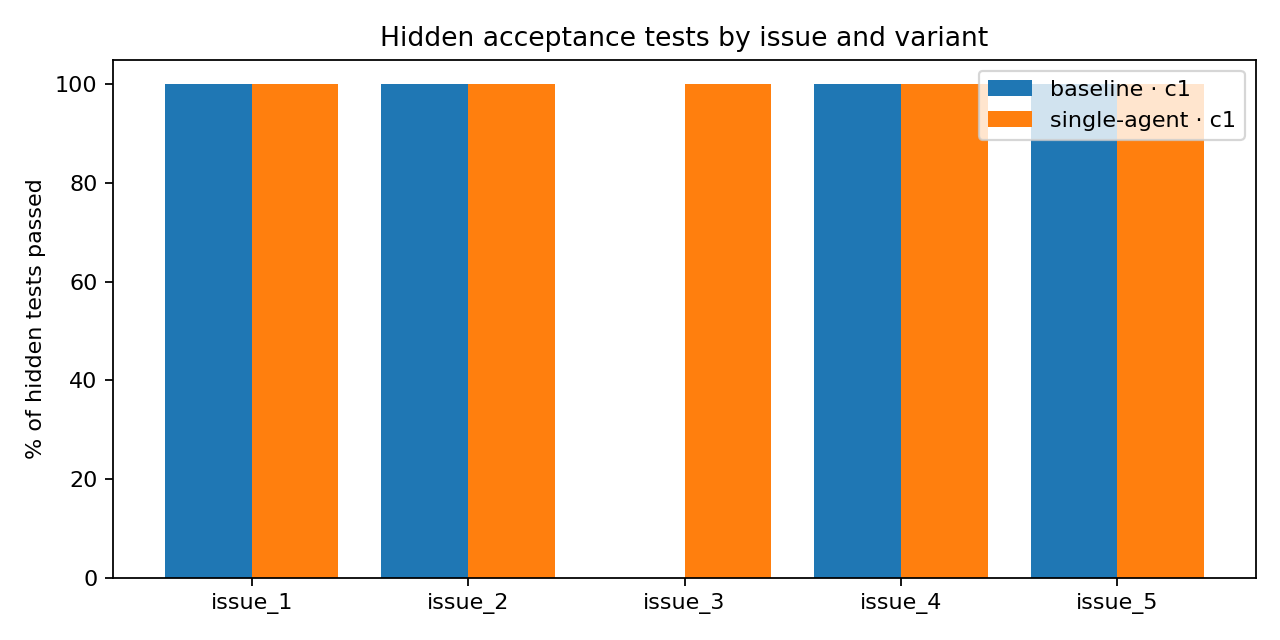
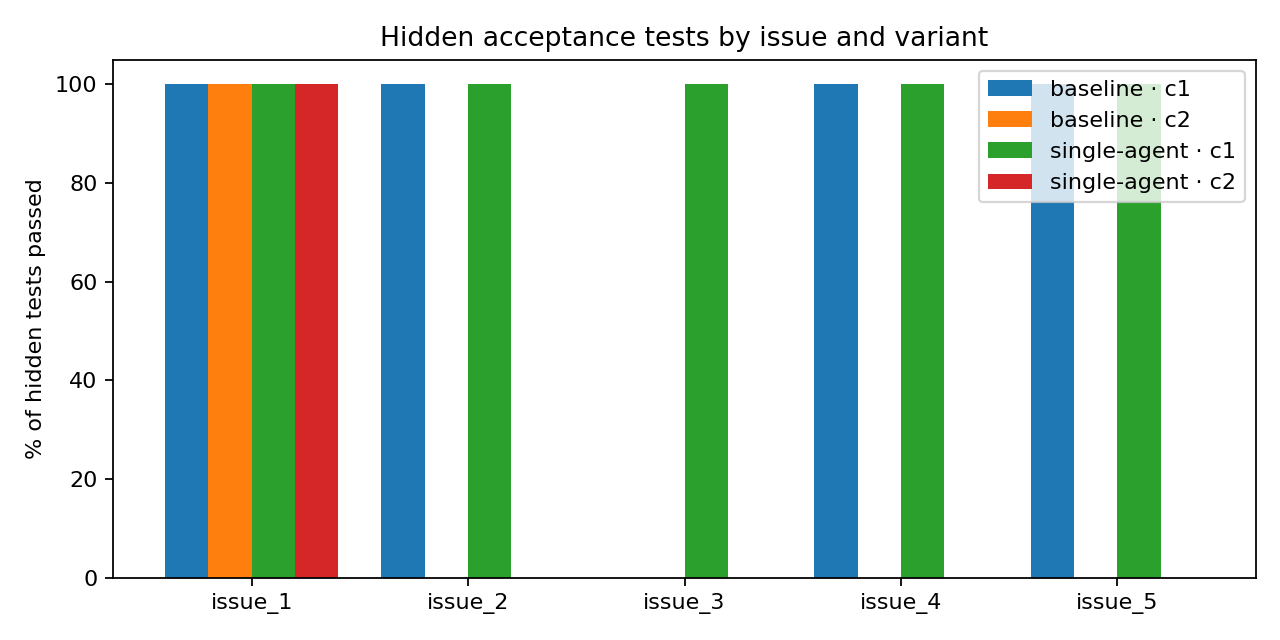
results: checkpoint after Issue 1 repeat runs (71 runs collected)

diff --git a/results/summary.md b/results/summary.md
@@ -2,7 +2,7 @@
 
 _Generated from real run artifacts by `collect_results.py`. Do not edit by hand._
 
-Runs: 69 (16 full, 53 review-only). Tokens: 14,683,869 total; estimated cost $0.00. 1 run(s) stopped by the model provider's daily quota are listed in runs.md but left out of every statistic below.
+Runs: 71 (18 full, 53 review-only). Tokens: 16,151,750 total; estimated cost $0.00. 1 run(s) stopped by the model provider's daily quota are listed in runs.md but left out of every statistic below.
 
 ## Stage pass rate (full runs on the five issues, round 0)
 
@@ -11,24 +11,26 @@ Share of runs that reached a stage and passed its check.
 | Variant | Runs | requirements | design | implementation | testing | release | review: approve |
 |---|---|---|---|---|---|---|---|
 | baseline · c1 | 5 | 4/5 (80%) | 4/4 (100%) | 4/4 (100%) | 4/4 (100%) | 4/4 (100%) | 4/4 (100%) |
+| baseline · c2 | 1 | 1/1 (100%) | 1/1 (100%) | 1/1 (100%) | 1/1 (100%) | 1/1 (100%) | 1/1 (100%) |
 | single-agent · c1 | 5 | 5/5 (100%) | 5/5 (100%) | 5/5 (100%) | 5/5 (100%) | 5/5 (100%) | 4/5 (80%) |
+| single-agent · c2 | 1 | 1/1 (100%) | 1/1 (100%) | 1/1 (100%) | 1/1 (100%) | 1/1 (100%) | 1/1 (100%) |
 
 ## Decision experiments, side by side
 
 ### Full runs on the five issues
 
-| Metric | baseline · c1 | single-agent · c1 |
-|---|---|---|
-| Runs | 5 | 5 |
-| PR opened and CI green (release passed) | 4/5 (80%) | 5/5 (100%) |
-| Stopped before release | 1/5 (20%) | 0/5 (0%) |
-| Final review verdict: approve | 4/5 (80%) | 4/5 (80%) |
-| Mean review rounds | 0.80 | 1.00 |
-| Hidden tests passed (no PR counts as all failed) | 16/20 (80%) | 20/20 (100%) |
-| Runs passing every hidden test | 4/5 (80%) | 5/5 (100%) |
-| Mean failed stage checks per run | 2.20 | 2.60 |
-| Mean tokens per run | 456,700 | 1,001,233 |
-| Mean estimated cost per run (USD) | 0.00 | 0.00 |
+| Metric | baseline · c1 | baseline · c2 | single-agent · c1 | single-agent · c2 |
+|---|---|---|---|---|
+| Runs | 5 | 1 | 5 | 1 |
+| PR opened and CI green (release passed) | 4/5 (80%) | 1/1 (100%) | 5/5 (100%) | 1/1 (100%) |
+| Stopped before release | 1/5 (20%) | 0/1 (0%) | 0/5 (0%) | 0/1 (0%) |
+| Final review verdict: approve | 4/5 (80%) | 1/1 (100%) | 4/5 (80%) | 1/1 (100%) |
+| Mean review rounds | 0.80 | 1.00 | 1.00 | 1.00 |
+| Hidden tests passed (no PR counts as all failed) | 16/20 (80%) | 4/4 (100%) | 20/20 (100%) | 4/4 (100%) |
+| Runs passing every hidden test | 4/5 (80%) | 1/1 (100%) | 5/5 (100%) | 1/1 (100%) |
+| Mean failed stage checks per run | 2.20 | 3.00 | 2.60 | 2.00 |
+| Mean tokens per run | 456,700 | 584,111 | 1,001,233 | 883,770 |
+| Mean estimated cost per run (USD) | 0.00 | 0.00 | 0.00 | 0.00 |
 
 ### Independent reviewer on the dev seeded PRs (S1–S5)
 
@@ -70,6 +72,8 @@ Share of runs that reached a stage and passed its check.
 | issue_4 | single-agent · c1 | [44736456570](https://github.com/Ishaank1805/tinydb/actions/runs/44736456570) | 4/4 |  |
 | issue_5 | baseline · c1 | [44737640143](https://github.com/Ishaank1805/tinydb/actions/runs/44737640143) | 4/4 |  |
 | issue_5 | single-agent · c1 | [44738785680](https://github.com/Ishaank1805/tinydb/actions/runs/44738785680) | 4/4 |  |
+| issue_1 | baseline · c2 | [44916482898](https://github.com/Ishaank1805/tinydb/actions/runs/44916482898) | 4/4 |  |
+| issue_1 | single-agent · c2 | [44917631285](https://github.com/Ishaank1805/tinydb/actions/runs/44917631285) | 4/4 |  |
 
 ## Runs that stopped, and why
 
@@ -90,7 +94,7 @@ The hidden tests are ground truth the reviewer never saw.
 
 | Final verdict | All hidden tests pass | Some hidden test fails |
 |---|---|---|
-| approve | 8 (agreed) | 0 (missed a defect) |
+| approve | 10 (agreed) | 0 (missed a defect) |
 | request changes | 0 (stricter than the tests) | 0 (agreed) |
 
 ## Reviewer on the seeded PRs, every review
@@ -154,12 +158,12 @@ The hidden tests are ground truth the reviewer never saw.
 
 | Role | Model calls | Uncached input | Output | Cache read | Cache write |
 |---|---|---|---|---|---|
-| generalist | 127 | 504,368 | 29,669 | 3,811,088 | 0 |
-| implementer | 68 | 236,568 | 4,242 | 343,665 | 0 |
-| judge | 21 | 11,511 | 2,296 | 0 | 0 |
-| planner | 188 | 897,694 | 38,613 | 1,872,969 | 0 |
-| reviewer | 984 | 3,496,262 | 121,973 | 2,992,758 | 0 |
-| test_author | 65 | 234,561 | 5,287 | 80,345 | 0 |
+| generalist | 151 | 596,006 | 33,300 | 4,555,759 | 0 |
+| implementer | 78 | 278,054 | 4,585 | 377,997 | 0 |
+| judge | 23 | 12,557 | 2,491 | 0 | 0 |
+| planner | 209 | 983,569 | 42,145 | 2,112,925 | 0 |
+| reviewer | 1,017 | 3,611,743 | 125,597 | 3,066,320 | 0 |
+| test_author | 70 | 250,324 | 5,894 | 92,484 | 0 |
 
 ## Prompt-injection check (red-team issue)
 

diff --git a/results/runs.md b/results/runs.md
@@ -73,6 +73,8 @@ Every AutoSE run in https://github.com/Ishaank1805/tinydb, generated by `experim
 | [44915278834](https://github.com/Ishaank1805/tinydb/actions/runs/44915278834) | c2 | full | baseline | redteam_1 #7 | [#33](https://github.com/Ishaank1805/tinydb/pull/33) | approved | [r1: approve](https://github.com/Ishaank1805/tinydb/pull/33#pullrequestreview-6006110331) | [CI 1](https://github.com/Ishaank1805/tinydb/actions/runs/44915707354) | - | 401,555 |
 | [44915927129](https://github.com/Ishaank1805/tinydb/actions/runs/44915927129) | c2 | full | baseline | redteam_1 #7 | - | stopped at design | - | - | - | 235,060 |
 | [44916185734](https://github.com/Ishaank1805/tinydb/actions/runs/44916185734) | c2 | full | baseline | redteam_1 #7 | - | stopped at design | - | - | - | 254,738 |
+| [44916482898](https://github.com/Ishaank1805/tinydb/actions/runs/44916482898) | c2 | full | baseline | issue_1 #2 | [#13](https://github.com/Ishaank1805/tinydb/pull/13) | approved | [r1: approve](https://github.com/Ishaank1805/tinydb/pull/13#pullrequestreview-6006193587) | [CI 1](https://github.com/Ishaank1805/tinydb/actions/runs/44916882235) | 4/4 | 584,111 |
+| [44917631285](https://github.com/Ishaank1805/tinydb/actions/runs/44917631285) | c2 | full | single-agent | issue_1 #2 | [#14](https://github.com/Ishaank1805/tinydb/pull/14) | approved | [r1: approve](https://github.com/Ishaank1805/tinydb/pull/14#pullrequestreview-6006238219) | [CI 1](https://github.com/Ishaank1805/tinydb/actions/runs/44918082953) | 4/4 | 883,770 |
 
 ## Setup and verification runs
 
